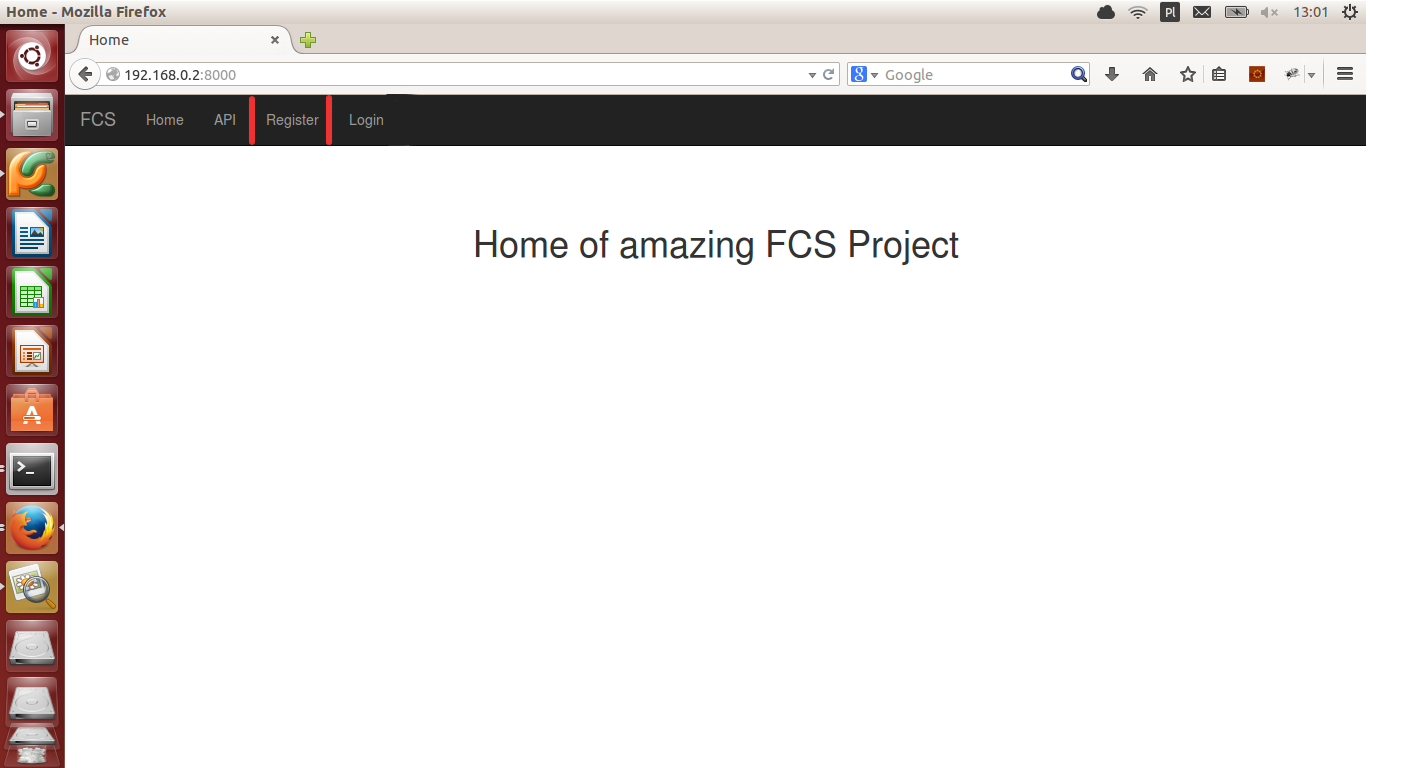
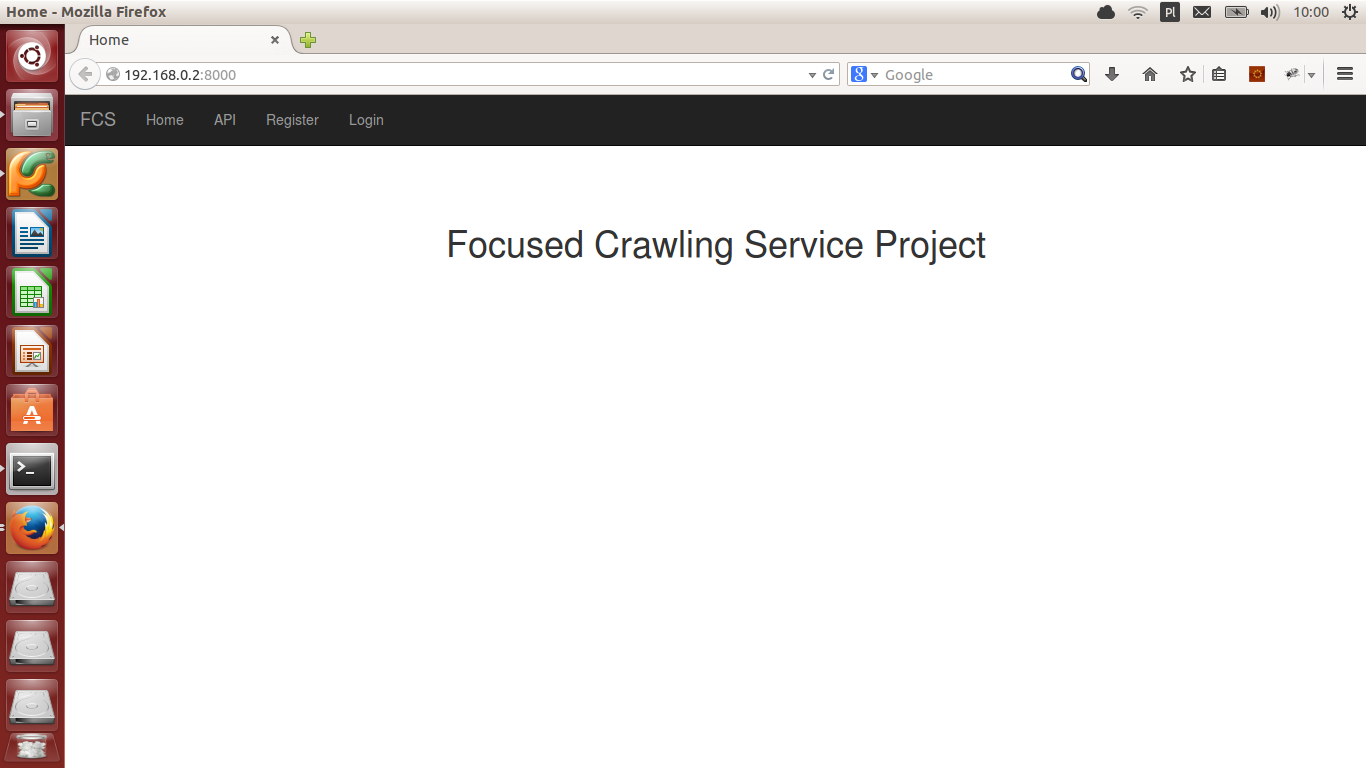
[NT] Tutorial.

diff --git a/fcs/fcs/manager/templates/base.html b/fcs/fcs/manager/templates/base.html
@@ -22,7 +22,7 @@
 
     <div class="main-content">
         {% block content %}
-        <h1 class="title">Home of amazing FCS Project</h1>
+        <h1 class="title">Focused Crawling Service Project</h1>
         {% endblock content %}
     </div>
 

diff --git a/server/link_db.py b/server/link_db.py
@@ -31,7 +31,6 @@ class BaseLinkDB(object):
 
 
 class GraphAndBTreeDB(BaseLinkDB):
-    FOUND_LINKS_DB = "_found_links_db"
     PRIORITY_QUEUE_DB = "_priority_queue_db"
 
     def __init__(self, base_name, policy_module):
